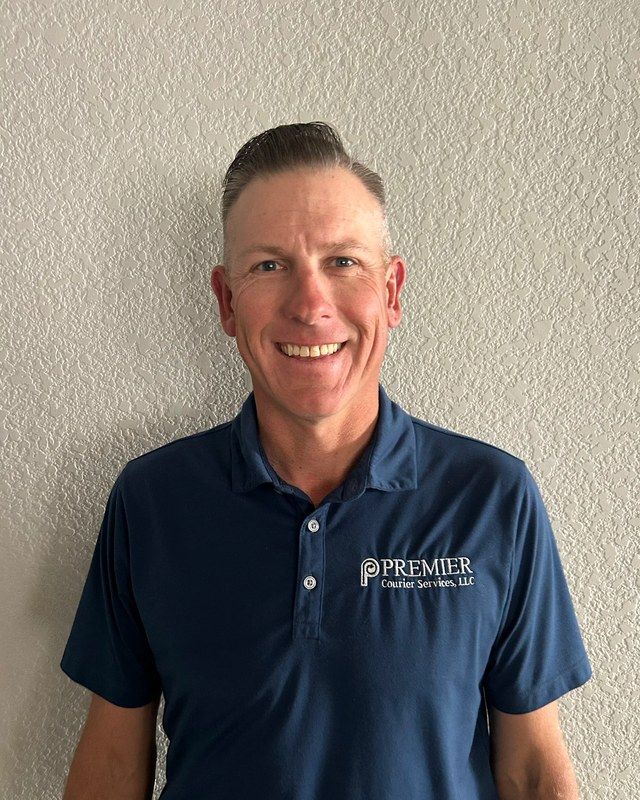
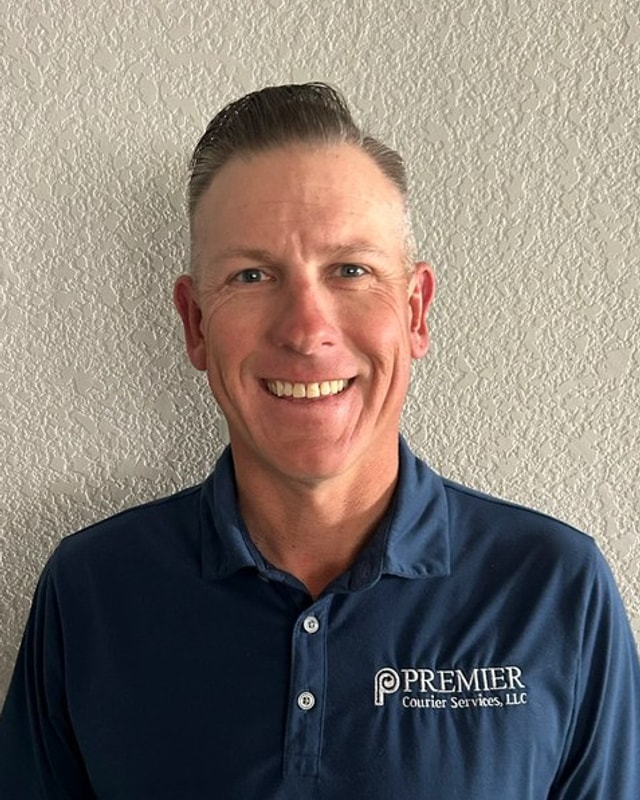
Remove copper, tighten phone hero, and polish pages across the site
- No copper anywhere: the mobile call bar is Deep Blue.
- Phones: the cooler holds for 0.7 of a screen and is fully open only
  briefly; desktop is unchanged.
- "A real person answers" appears once per page; call links read
  "Call (928) 533-3585".
- Quote form: "Choose one" placeholders, a required-fields line, and the
  patient-information note above both addresses.
- The phone number never breaks across lines (build wraps it).
- About: equal portrait sizes, side by side on tablets, consistent driver
  crops, Johnna's placeholder last.
- Balanced headline wrapping, equal-width stacked buttons and two-column
  cards on phones; 404 links to Services, Quote, and Contact.
- Logo source at 400px: 600px pushed mobile LCP past budget.

diff --git a/src/assets/css/components.css b/src/assets/css/components.css
@@ -52,14 +52,14 @@
   color: var(--pc-on-dark);
 }
 
-/* The Call Now / 24-7 cue. Copper only on the mobile bottom bar; the desktop header cue is
-   outlined Deep Blue (below). Nothing else on the site uses copper. */
+/* The Call Now / 24-7 cue: the mobile bottom bar (Deep Blue) and the desktop header cue
+   (outlined Deep Blue, below). The site uses no copper. */
 .call-cue {
   display: inline-flex;
   align-items: center;
   gap: 10px;
   padding: 10px 16px;
-  background: var(--pc-copper);
+  background: var(--pc-deep);
   color: var(--pc-on-dark);
   border-radius: var(--pc-radius);
   font-size: var(--pc-text-cue);
@@ -387,8 +387,13 @@
   font-weight: 500;
 }
 
+.nowrap {
+  white-space: nowrap;
+}
+
 .pull {
   margin: 0;
+  text-wrap: balance;
   color: var(--pc-deep);
   font-size: var(--pc-text-h2);
   font-weight: 800;
@@ -424,6 +429,11 @@
   grid-template-columns: minmax(0, 5fr) minmax(0, 7fr);
   gap: 56px;
   align-items: start;
+}
+
+/* Photo on the right: mirror the columns so both portraits are the same size. */
+.profile--reverse {
+  grid-template-columns: minmax(0, 7fr) minmax(0, 5fr);
 }
 
 .profile--reverse .profile__photo {
@@ -480,6 +490,28 @@
   font-size: var(--pc-text-h1);
   line-height: 1.04;
   letter-spacing: -0.03em;
+}
+
+.link-list {
+  display: flex;
+  flex-wrap: wrap;
+  gap: 8px 28px;
+  margin: 32px 0 0;
+  padding: 0;
+  list-style: none;
+}
+
+.link-list a {
+  font-weight: 700;
+}
+
+.quote-form__intro {
+  margin: 0 0 4px;
+  color: var(--pc-text-2);
+}
+
+.quote-form__hint {
+  margin: 0 0 24px;
 }
 
 .contact-list {
@@ -756,23 +788,12 @@
 
   .points,
   .testimonials,
-  .split,
-  .profile {
+  .split {
     grid-template-columns: 1fr;
   }
 
   .profile {
-    gap: 28px;
-  }
-
-  /* Phones: text first, photo after; keeps the headline as the page's largest first paint. */
-  .profile__photo,
-  .profile--reverse .profile__photo {
-    order: 2;
-  }
-
-  .profile__photo {
-    max-width: 320px;
+    gap: 32px;
   }
 
   .hero__sequence {
@@ -781,6 +802,48 @@
 
   .site-footer__inner {
     grid-template-columns: 1fr;
+  }
+}
+
+@media (max-width: 600px) {
+  .profile,
+  .profile--reverse {
+    grid-template-columns: 1fr;
+    gap: 24px;
+  }
+
+  /* Text first, portrait after: a portrait in the first screen pushes mobile LCP past budget
+     (2.7 s measured with it above the text). */
+  .profile__photo,
+  .profile--reverse .profile__photo {
+    order: 2;
+    max-width: 280px;
+  }
+
+  /* Stacked buttons share one width instead of a ragged column. */
+  .button-row .button,
+  .quote-form .button {
+    flex: 1 1 100%;
+    width: 100%;
+  }
+
+  /* Card grids go two across, so twelve cards don't fill three screens. */
+  .cards {
+    grid-template-columns: repeat(2, minmax(0, 1fr));
+    gap: 10px;
+  }
+
+  .card,
+  .card__link {
+    padding: 16px;
+  }
+
+  .card__link {
+    margin: -16px;
+  }
+
+  .card__title {
+    font-size: var(--pc-text-body);
   }
 }
 

diff --git a/src/pages/quote.html b/src/pages/quote.html
@@ -9,6 +9,8 @@
   <div class="container container--reading">
     <form class="quote-form" action="{{ quoteEndpoint }}" method="post" novalidate
           data-endpoint="{{ quoteEndpoint }}" data-required="{{ page.fields.required }}" data-sending="{{ page.fields.sending }}">
+      <p class="quote-form__intro">{{ page.fields.requiredNote }}</p>
+      <p class="field__hint quote-form__hint" id="address-hint">{{ page.fields.addressHint }}</p>
       <div class="field">
         <label for="pickup">{{ page.fields.pickup }}</label>
         <input id="pickup" name="pickup" type="text" autocomplete="street-address" required aria-describedby="address-hint">
@@ -16,12 +18,11 @@
       <div class="field">
         <label for="dropoff">{{ page.fields.dropoff }}</label>
         <input id="dropoff" name="dropoff" type="text" required aria-describedby="address-hint">
-        <p class="field__hint" id="address-hint">{{ page.fields.addressHint }}</p>
       </div>
       <div class="field">
         <label for="what">{{ page.fields.what }}</label>
         <select id="what" name="what" required>
-          <option value="" selected disabled></option>
+          <option value="" selected disabled>{{ page.fields.choose }}</option>
           {{#each page.fields.whatOptions}}<option value="{{ value }}">{{ label }}</option>
           {{/each}}
         </select>
@@ -29,7 +30,7 @@
       <div class="field">
         <label for="when">{{ page.fields.when }}</label>
         <select id="when" name="when" required>
-          <option value="" selected disabled></option>
+          <option value="" selected disabled>{{ page.fields.choose }}</option>
           {{#each page.fields.whenOptions}}<option value="{{ value }}">{{ label }}</option>
           {{/each}}
         </select>

diff --git a/scripts/build.js b/scripts/build.js
@@ -30,6 +30,18 @@ const REQUIRED_PAGE_FIELDS = ['route', 'template', 'status', 'title', 'descripti
 
 // Favicon: the P mark alone. It is the first run of opaque columns in the logo; the
 // crop stops at the transparent gap before the wordmark.
+// The phone number never breaks across lines ("533-" / "3585"). Only visible text in <body>
+// is wrapped; attributes, <head>, and <script>/<style> contents are left alone. Spaces next to
+// the number become non-breaking, since flex containers (buttons) would drop them.
+function keepPhoneTogether(html, number) {
+  const start = html.indexOf('<body');
+  const head = html.slice(0, start);
+  const body = html.slice(start).split(/(<script[\s\S]*?<\/script>|<style[\s\S]*?<\/style>)/);
+  return head + body.map((part, i) => (i % 2 ? part : part.replace(/>([^<]+)</g, (m, text) =>
+    '>' + text.split(number).map((t, j, all) => (j > 0 ? t.replace(/^ /, '&nbsp;') : t)
+      .replace(j < all.length - 1 ? / $/ : /(?!)/, '&nbsp;')).join(`<span class="nowrap">${number}</span>`) + '<'))).join('');
+}
+
 async function makeFavicon(logo, out) {
   if (!existsSync(logo)) return;
   const { data, info } = await sharp(logo).ensureAlpha().extractChannel(3).raw().toBuffer({ resolveWithObject: true });
@@ -204,7 +216,7 @@ export async function build(targetName = process.env.BUILD_TARGET || 'local') {
       exists: Object.fromEntries([...routes.keys()].map((r) => [r, true])),
     };
     ctx.body = render(tpl, ctx, `pages/${page.template}`);
-    const html = render(layout, ctx, 'layouts/base');
+    const html = keepPhoneTogether(render(layout, ctx, 'layouts/base'), shared.phone.display);
     const out = outputPath(page.route);
     await mkdir(path.dirname(out), { recursive: true });
     await writeFile(out, html);

diff --git a/src/assets/js/hero.js b/src/assets/js/hero.js
@@ -86,7 +86,7 @@
     if (set === 'mobile') {
       // Phones: stick in the middle; play while held for most of a screen of scrolling.
       var stickTop = Math.max(headerH + 8, centreTop);
-      var span = vh * 0.9;
+      var span = vh * 0.7;
       geometry = { mode: 'hold', start: docTop - stickTop, span: span };
       el.style.setProperty('--stick-top', stickTop.toFixed(1) + 'px');
       if (travel) travel.style.height = Math.ceil(span) + 'px';
@@ -136,7 +136,8 @@
     var s = Math.min(Math.max(window.scrollY - g.start, 0), g.span);
     if (g.mode === 'hold') {
       place(0, 0, 1);
-      return Math.sin(Math.PI * (s / g.span)) * (N - 1);             // closed → open → closed
+      var o = Math.sin(Math.PI * (s / g.span));
+      return o * o * o * (N - 1);                                    // closed → open (briefly) → closed
     }
     var m = smooth((s - g.moveStart) / (g.moveEnd - g.moveStart));  // 0 → 1: to the middle
     var scale = 1 + (g.grow - 1) * m;

diff --git a/src/assets/css/tokens.css b/src/assets/css/tokens.css
@@ -36,15 +36,13 @@
   --pc-navy: #0B3556;
   --pc-sky: #6BADDF;
   --pc-steel: #608CBE;
-  --pc-copper: #C0632B;
   --pc-bg: #FFFFFF;
   --pc-bg-alt: #F3F7FB;
   --pc-text: #0B3556;
   --pc-text-2: #5A6B7C;
   --pc-border: #D9E3EC;
 
-  /* Roles. Courier Blue on white is 3.7:1, so text-sized links and buttons use Deep Blue (7.2:1).
-     Copper carries white text only at ≥19px bold (large text, 4.1:1). */
+  /* Roles. Courier Blue on white is 3.7:1, so text-sized links and buttons use Deep Blue (7.2:1). */
   --pc-link: var(--pc-deep);
   --pc-link-hover: var(--pc-navy);
   --pc-on-dark: #FFFFFF;
@@ -61,7 +59,7 @@
   --pc-text-h1: clamp(2.5rem, 1.6rem + 4.2vw, 4.5rem);   /* 40 → 72px */
   --pc-text-h2: clamp(1.75rem, 1.35rem + 1.8vw, 2.75rem);
   --pc-text-h3: 1.1875rem;
-  --pc-text-cue: 1.1875rem;           /* 19px; keeps copper at large-text contrast */
+  --pc-text-cue: 1.1875rem;           /* 19px */
 
   /* Shape and space */
   --pc-radius: 8px;

diff --git a/src/pages/about.html b/src/pages/about.html
@@ -2,7 +2,7 @@
   <div class="container container--reading">
     <p class="eyebrow">{{ page.eyebrow }}</p>
     <h1 class="page-head__title">{{ page.heading }}</h1>
-    <p class="lead">{{ page.lead }}</p>
+    {{#if page.lead}}<p class="lead">{{ page.lead }}</p>{{/if}}
   </div>
 </section>
 
@@ -14,7 +14,6 @@
         <h2 class="section__heading" id="alanna-heading">{{ page.alanna.heading }}</h2>
         {{#each page.alanna.paragraphs}}<p>{{ this }}</p>
         {{/each}}
-        <p class="band__cta"><a href="tel:{{ phone.tel }}">{{ cta.personAnswers }}</a></p>
       </div>
     </div>
   </div>

diff --git a/src/partials/how-we-handle.html b/src/partials/how-we-handle.html
@@ -8,6 +8,6 @@
       </li>
       {{/each}}
     </ul>
-    <p class="band__cta reveal"><a href="tel:{{ phone.tel }}">{{ cta.personAnswers }}</a>{{#if exists./how-we-handle-it/}} · <a href="{{ base }}/how-we-handle-it/">{{ linkLabel }}</a>{{/if}}</p>
+    <p class="band__cta reveal"><a href="tel:{{ phone.tel }}">{{ cta.callNumber }}</a>{{#if exists./how-we-handle-it/}} · <a href="{{ base }}/how-we-handle-it/">{{ linkLabel }}</a>{{/if}}</p>
   </div>
 </section>

diff --git a/src/pages/handle.html b/src/pages/handle.html
@@ -22,7 +22,7 @@
   <div class="container container--reading">
     <h2 class="band__heading reveal" id="owner-heading">{{ page.owner.heading }}</h2>
     <p class="band__lead reveal">{{ page.owner.body }}</p>
-    <p class="band__cta reveal"><a href="tel:{{ phone.tel }}">{{ cta.personAnswers }}</a></p>
+    <p class="band__cta reveal"><a href="tel:{{ phone.tel }}">{{ cta.callNumber }}</a></p>
   </div>
 </section>
 

diff --git a/src/pages/404.html b/src/pages/404.html
@@ -6,5 +6,9 @@
       <a class="button button--primary" href="{{ base }}/">{{ page.homeLabel }}</a>
       <a class="button button--secondary" href="tel:{{ phone.tel }}">Call {{ phone.display }}</a>
     </div>
+    <ul class="link-list">
+      {{#each page.links}}<li><a href="{{ base }}{{ route }}">{{ label }}</a></li>
+      {{/each}}
+    </ul>
   </div>
 </section>

diff --git a/src/assets/css/base.css b/src/assets/css/base.css
@@ -28,6 +28,7 @@ h1,
 h2,
 h3 {
   margin: 0 0 0.5em;
+  text-wrap: balance;
   color: var(--pc-navy);
   font-weight: 800;
   line-height: 1.08;

diff --git a/CLAUDE.md b/CLAUDE.md
@@ -10,7 +10,7 @@ Read this file fully before writing code. `@docs/brand-guide-internal.md` and `@
 - **Live:** preview only, at https://premiercourier.github.io/Website/ (noindex, no custom domain). Every push to `main` redeploys it (~2 min). Verified: all 18 pages 200, hero plays on laptop and phone, no source file reachable.
 - **Built:** all 18 routes (all `status: proposed`), the scroll-scrubbed cooler hero (72 desktop / 24 mobile frames, with the tube rack), the quote form, the Azure Function code (`functions/quote/`, 14 unit tests passing — **not deployed**), the DNS runbook, and Alanna's review list (`docs/review-for-alanna.md`).
 - **Blocking launch:** Alanna's review and written approval of every page; the Azure Function deployed and wired (see Open items); Twilio A2P 10DLC registration; the DNS cutover (`docs/dns-cutover.md`).
-- **Latest Lighthouse** (mobile / desktop, all 18 pages pass): home 99 / 100, LCP 1.8 s / 0.4 s. Hero frames fetched: mobile 321 KB (budget 900 KB), desktop 1,388 KB (budget 3.5 MB).
+- **Latest Lighthouse** (2026-09-23; mobile / desktop, all 18 pages pass): home 99 / 100, LCP 1.8 s / 0.5 s; every page LCP 1.7–1.8 s mobile. Hero frames fetched: mobile 321 KB (budget 900 KB), desktop 1,388 KB (budget 3.5 MB). The logo source is 400 px wide on purpose: at 600 px it pushed mobile LCP to 2.1 s.
 
 ## Non-negotiables
 
@@ -92,9 +92,9 @@ Every page: fixed phone element in header (desktop) and bottom bar with "(928) 5
 Reference feel: superpower.com (Daybreak Studio) — white canvas, one type family at heavy weights, large left-aligned headlines in a centered column, full-bleed photography, one accent, generous space, no UI gradients, a 3D hero object, scroll-driven reveals, and dark bands that break the page. All of it is in scope, delivered as scroll-scrubbed frame sequences and CSS — no 3D runtime.
 
 - Type: Inter only (self-hosted woff2, weights 400/500/700/800). Headlines 700–800, tight leading, up to 72px on desktop. Body 400 at 17–18px. No serif on the web.
-- Color (tokens.css): `--pc-primary #178EC7`, `--pc-deep #0A5A96`, `--pc-navy #0B3556`, `--pc-sky #6BADDF`, `--pc-steel #608CBE`, `--pc-copper #C0632B`, `--pc-bg #FFFFFF`, `--pc-bg-alt #F3F7FB`, `--pc-text #0B3556`, `--pc-text-2 #5A6B7C`, `--pc-border #D9E3EC`.
-- Blue carries the brand: nav, footer, headings, links, service cards. Courier Blue is 3.7:1 on white, so text-sized links, buttons, and eyebrows use Deep Blue; Courier Blue is for large type and non-text accents. Copper is used for exactly one element: the mobile bottom call bar. The desktop header Call Now button is outlined Deep Blue, matching the secondary buttons (changed 2026-09-23 at the project lead's instruction). Never as a general accent, never for text.
-- Dark bands: Navy Ink `#0B3556` background with white type, used for the how-we-handle-it section on home and the coverage section. Maximum two dark bands per page. Copper still limited to one element.
+- Color (tokens.css): `--pc-primary #178EC7`, `--pc-deep #0A5A96`, `--pc-navy #0B3556`, `--pc-sky #6BADDF`, `--pc-steel #608CBE`, `--pc-bg #FFFFFF`, `--pc-bg-alt #F3F7FB`, `--pc-text #0B3556`, `--pc-text-2 #5A6B7C`, `--pc-border #D9E3EC`.
+- Blue carries the brand: nav, footer, headings, links, service cards. Courier Blue is 3.7:1 on white, so text-sized links, buttons, and eyebrows use Deep Blue; Courier Blue is for large type and non-text accents. No copper anywhere (removed 2026-09-23 at the project lead's instruction): the mobile bottom call bar is Deep Blue, and the desktop header Call Now button is outlined Deep Blue like the secondary buttons.
+- Dark bands: Navy Ink `#0B3556` background with white type, used for the how-we-handle-it section on home and the coverage section. Maximum two dark bands per page.
 - Photography: golden-hour Arizona light, full-bleed, real people and real vehicles from the shoot. Before the shoot: the 3D hero object on white, no stock.
 - Current photos (About page) are the ones already published on the Squarespace site: Travis, Alanna, and drivers Dave, Sherry, Sergio, Brandon, Zaine — cropped 4:5, converted from Display P3 to sRGB (converting, never just dropping the profile, or skin tones shift), metadata stripped. Johnna's published photo was taken inside what looks like a client facility, so she shows as her initial until a new photo arrives.
 
@@ -109,7 +109,7 @@ Reference feel: superpower.com (Daybreak Studio) — white canvas, one type fami
 - Keeping the cooler in view without pinning scroll: the spacer `.hero__travel` is 60svh from first paint (no layout shift) and `hero.js` then sizes it to the exact hold; `.hero` has `min-height: 100svh`. Known issue, decision pending: at 1512×804 the hold leaves a long white stretch below the CTAs (the hero is ~1,600px tall); `min-height` does not fix it — options are releasing the cooler sooner, starting the slide earlier, or leaving it.
   - The hold is CSS `position: sticky` over a spacer (`.hero__travel`) — native, so it never lags or jitters in either scroll direction; the script only sets the frame (eased so a wheel notch plays the frames between), the slide to centre, and the size. `.hero` uses `overflow: clip`, never `hidden`, or sticky breaks.
   - Laptops (≥1024px): held from the first scroll; once the headline has scrolled away, the cooler slides to the middle of the screen  and grows to fill the height below the header as it opens (up to 1.8×; each layer wobbles on its own as it separates — baked into the frames, not a CSS effect; the camera envelope is set so every part stays in frame at full separation, ≥5% margin all round), pauses fully open, then is released and closes and zooms back out as it scrolls away.
-  - Phones: held in the middle of the screen while it opens and closes, then scrolls away.
+  - Phones: held in the middle of the screen for 0.7 of a screen of scrolling; it is fully open only briefly at the middle of the hold (frame curve sin³), then closes and scrolls away. Desktop keeps its longer open pause.
   - Holding the *object* centred is allowed; the page itself always scrolls natively — no scroll pinning, snapping, or slowing. Reduced motion and Save-Data remove the reserved space and show the poster only.
 - Source and pipeline: `design/cooler_sequence.py` (Blender 5.2, `C:\Program Files\Blender Foundation\Blender 5.2\blender.exe`; `--still closed|exploded`, `--sequence 72`, `--preview` for quick low-res) → `npm run sequence` → `src/assets/sequence/`. A full 72-frame render takes ~25 min on the RTX 5060 (run it in the background); stills ~20 s each. After any render, check every frame's alpha bounding box keeps ≥5% margin before publishing. Coverage-band relief map (3D subject 2) is **not built** — it needs public county-boundary and elevation data; ask before downloading.
 - Hero LCP is the headline, not the canvas. Budget: hero must not push LCP past 1.8s on mobile 4G or 1.2s on desktop.
@@ -180,7 +180,7 @@ Account owner / project lead:
 - **Relief map**: permission to download county-boundary and elevation data.
 
 Alanna (full list in `docs/review-for-alanna.md`, which starts with the preview link):
-- Approve or change every page (all 18 are `proposed`); design proposals (Inter only, 3D cooler with tubes, no gradients, copper Call Now); every line of newly composed copy.
+- Approve or change every page (all 18 are `proposed`); design proposals (Inter only, 3D cooler with tubes, no gradients, all-blue call buttons, no copper); every line of newly composed copy.
 - Facts: founding year (leave out until confirmed); formal HIPAA training (until then "HIPAA-compliant handling" only); chain of custody, signature on delivery, temperature-appropriate transport (kept off the site).
 - Photos OK to reuse; a new photo of Johnna. The photoshoot hasn't happened yet: until it does, the cooler hero carries the home page, and the new photos go on the service and About pages once they arrive.
 - The original/vector P mark (the only copy is 40×59 px cropped from the logo PNG, soft on the cooler and envelope seal); otherwise approval to have it traced.

diff --git a/docs/review-for-alanna.md b/docs/review-for-alanna.md
@@ -10,7 +10,7 @@ Everything on the preview is `status: proposed` until Alanna approves it. Verbat
 - [ ] **3D cooler hero** — the sealed blue cooler with the P mark opens into its layers (lid, insulated body, two cold packs, a rack of six empty capped test tubes, one sealed plain opaque pouch) as you scroll and closes again. Nothing carries a label or text, and the tubes are empty.
 - [ ] **Syringe** — left out on purpose (a needle reads as injection rather than transport). Say if you'd like a capped syringe in a sealed pack added.
 - [ ] **No UI gradients** — the logo-gradient bands and buttons from the guide are retired in favour of flat brand blues.
-- [ ] **Copper** appears only on the bottom call bar on phones. The desktop "Call Now" button is outlined in blue, like the other call buttons.
+- [ ] **No copper/orange.** The call buttons are all brand blue: the bottom call bar on phones is solid blue, and the desktop "Call Now" button is outlined in blue.
 - [ ] **Logo**: a sharper version of the current logo (same design) is now used in the header, footer, and browser tab icon.
 
 ## 2. Photos
